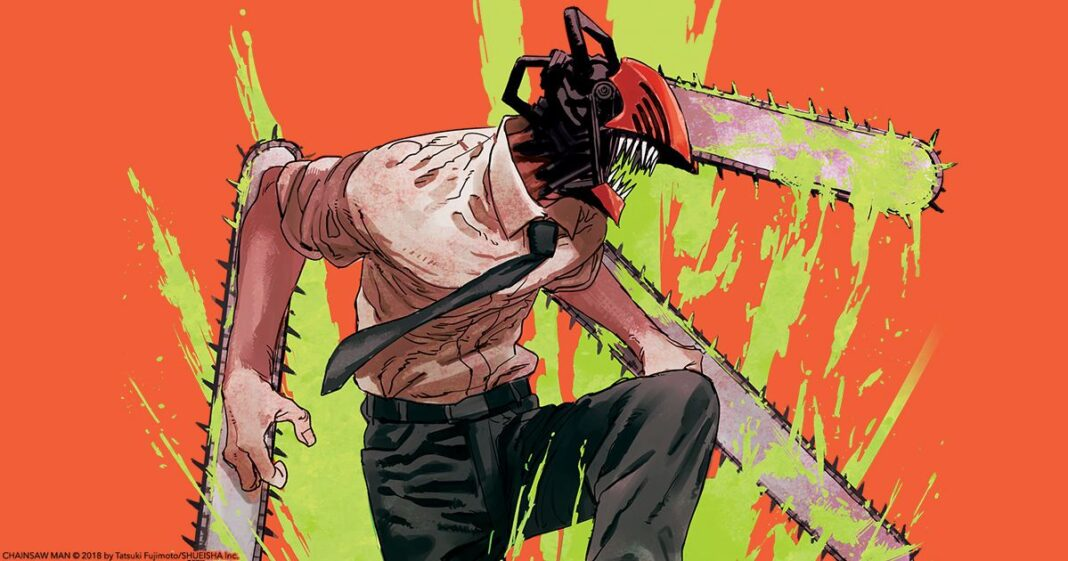
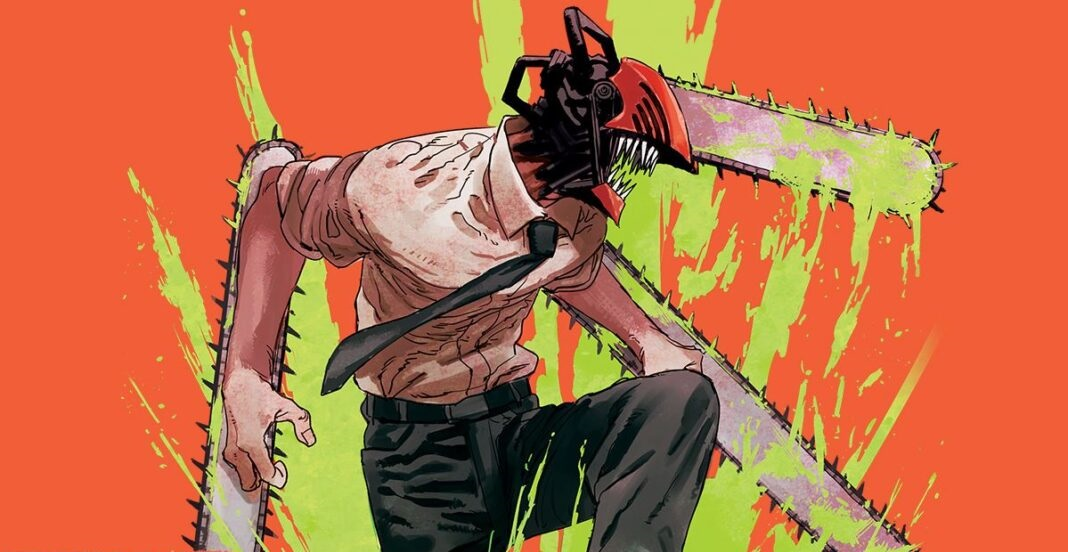
ajustes de layout: mudança nos papeis de parede da área de login, adição da função User, que checa se o usuário já possui login, caso sim, exibe uma animação no botão de entrar

Changed region(s): [[0.0, 0.0924, 0.8961, 1.0], [0.8343, 0.5851, 0.8652, 0.6159]]

diff --git a/script/script.js b/script/script.js
@@ -63,8 +63,8 @@ else if(arr.includes('episodio12')){
 function Carregamento(){
     let num = localStorage.getItem("ep");
     let video = document.getElementById("video");
-    // video.src=`file://D:/chainsawman_${num}.mp4`; //ACESSO LOCAL DIRETO
-    video.src=`http://localhost/vid/chainsawman_${num}.mp4`;//ACESSO A LOCAL HOST
+    video.src=`file://C:/chainsawman/${num}.mp4`; //ACESSO LOCAL DIRETO
+    // video.src=`http://localhost/vid/chainsawman_${num}.mp4`;//ACESSO A LOCAL HOST
 }
 //******FUNÇÃO ATIVADA NO BOTÃO "ENTRAR COMO CONVIDADO" QUE ESCONDE A ÁREA DE LOGIN E ABRE APP.HTML*****
 function log(){
@@ -77,7 +77,7 @@ function log(){
         wallpapper.style.marginLeft="100px";
         arrow.src="./img/arrow-right.png";
         setTimeout(x=>{
-            wallpapper.src="./img/wp2.jpg";
+            wallpapper.src="./img/1.jpg";
             window.open("./html/app.html");
             arrow.style.display="block";
         },1000);  
@@ -87,7 +87,7 @@ function log(){
         wallpapper.style.marginTop="100px";
         arrow.src="./img/arrow-down.png";
         setTimeout(x=>{
-            wallpapper.src="./img/wp2.jpg";
+            wallpapper.src="./img/2.jpg";
             window.open("./html/app.html");
             arrow.style.display="block";
         },1000);
@@ -130,9 +130,11 @@ function enterOrRegister(){
         let user = document.createElement("input");
             user.setAttribute("placeholder","insira seu usuário");
                 user.type="text";
+                    localStorage.getItem("userName")!=null?user.value=localStorage.userName:user.value=""
         let password = document.createElement("input");
             password.setAttribute("placeholder","insira sua senha");
                 password.type="password";
+                localStorage.getItem("userPassword")!=null?password.value=localStorage.userPassword:password.value=""
         let entrar = document.createElement("input");
             entrar.type="button";
                 entrar.value="entrar";
@@ -223,4 +225,14 @@ function enterOrRegister(){
         }
     }
     }  
+}
+//*****SE POSSUIR CREDENCIAL, BOTÃO ENTRAR FICA PISCANDO******
+function User(){
+    let btnEnter = document.querySelectorAll("article button")[0];
+    if(localStorage.getItem("userName")!=null&&localStorage.getItem("userPassword")!=null){
+        btnEnter.className="animate";
+    }
+    else{
+        btnEnter.className="";
+    }
 }

diff --git a/html/iframeplayer.html b/html/iframeplayer.html
@@ -15,10 +15,33 @@
             background-image:url('../img/bg3.jpg');
             background-size:cover;
         }
+        #btn{
+            font-family:Arial, sans-serif;
+            color:rgba(255, 0, 0, 0.911);
+            padding:10px 20px;
+            border:2px solid rgba(255, 0, 0, 0.911);
+            border-radius:5px;
+            position:absolute;
+            text-decoration:none;
+            top:50px;
+            right:50px;
+            animation-name:btn;
+            animation-duration: 1s;
+            animation-iteration-count:infinite;
+            animation-direction:alternate;
+            transition:0.5s;
+        }
+        #btn:hover{
+            background-color:rgba(255, 0, 0, 0.911);
+            border-color:rgb(250, 250, 48);
+            color:rgb(250, 250, 48);
+        }
+        
     </style>
 </head>
 <body onload="Carregamento()">
-    <video id="video" width="520" height="440" muted="false" autoplay="true" controls>
+    <a  id="btn" href="#" onclick="exit()">FECHAR</a>
+    <video id="video" width="520" height="440" muted="false" autoplay="true" controls poster="../img/error.jpg">
         <source src="" type="video/mp4">
       </video>
 

diff --git a/estilos/estilo1.css b/estilos/estilo1.css
@@ -84,6 +84,11 @@ button:first-child:hover{
     cursor:pointer;
     display:none;
 }
+.animate{
+    animation-name:enter;
+    animation-duration:2s;
+    animation-iteration-count:infinite;
+}
 @keyframes wallpapper{
     0%{
         opacity:1;
@@ -93,6 +98,21 @@ button:first-child:hover{
     }
     100%{
         opacity:1;
+    }
+}
+@keyframes enter{
+    0%{
+        background-color:rgba(255, 0, 0, 0.943);
+        color:rgba(255, 255, 0, 0.943);
+    }
+    50%{
+        background-color:rgba(255, 255, 0, 0.943);
+        color:rgba(255, 0, 0, 0.943);
+        border-color:rgba(255, 0, 0, 0.943);
+    }
+    100%{
+        background-color:rgba(255, 0, 0, 0.943);
+        color:rgba(255, 255, 0, 0.943);
     }
 }
 @media screen and (max-width:600px){

diff --git a/index.html b/index.html
@@ -7,10 +7,10 @@
     <title>Login Chainsawman</title>
     <link rel="stylesheet" type="text/css" href="estilos/estilo1.css">
 </head>
-<body onload="enterOrRegister()">
+<body onload="enterOrRegister(),User()">
     <main>
         <!--PAPEL DE PAREDE DINÂMICO-->
-        <img src="img/wp1.jpg" alt="Denji wallpapper">
+        <img src="img/1.jpg" alt="Denji wallpapper">
         <!--ÁREA DE LOGIN-->
         <aside>
             <article>

diff --git a/html/app.html b/html/app.html
@@ -60,7 +60,7 @@
         <article>
             <a class="play">
                 <div class="img">
-                     <img src="../epthumb/07.png" alt="episodio 07">
+                     <img src="../epthumb/07.png" alt="episodio07">
                      <p>EP07</p>
                 </div></a>
         </article>
